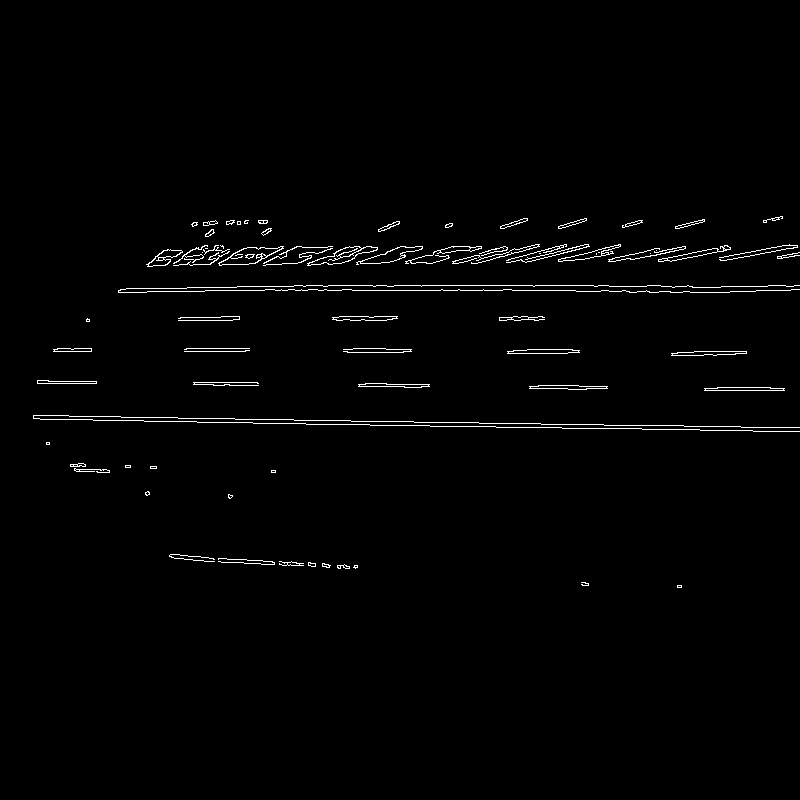
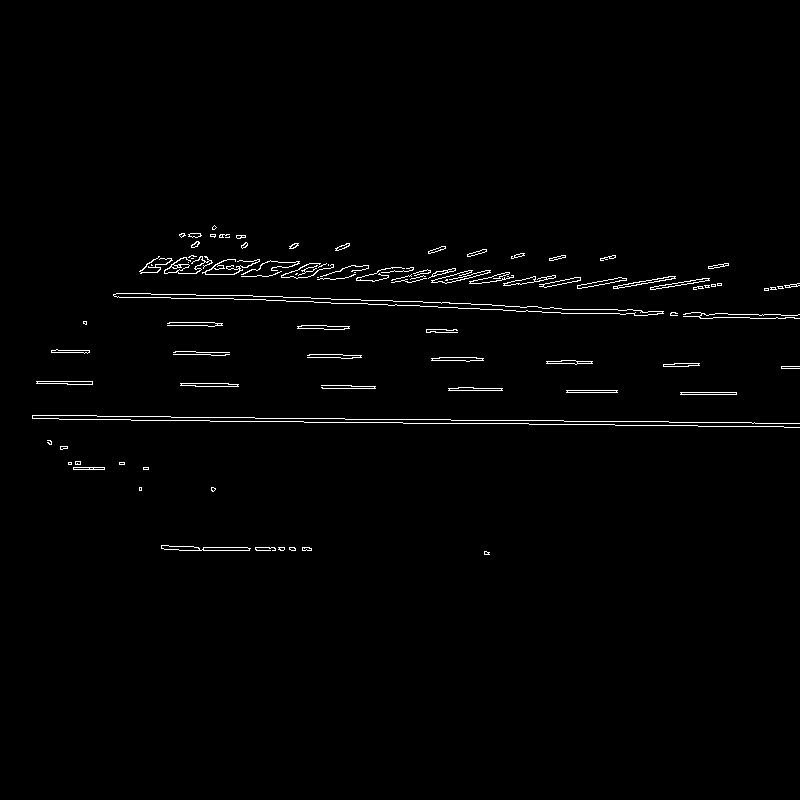
duplicate lines removed

diff --git a/ipm.py b/ipm.py
@@ -5,6 +5,7 @@ import json
 import threading
 import logging
 import time
+import math
 
 from myLine import myLine
 from time import sleep
@@ -55,8 +56,13 @@ def filter_out_dark_pixels():
 
     im.save('threshold_filter_gray.png')
 
+def distance(x1, y1, x2, y2):
+    d = math.sqrt((x2 - x1) * (x2 - x1) + (y2 - y1) * (y2 - y1))
+    return d
+
 def get_lines():
     det_lines = []
+    rm_lines = []
     threshold_filter_gray = cv2.imread('threshold_filter_gray.png')
     kernel_size = 5
     blur_gray = cv2.GaussianBlur(threshold_filter_gray,(kernel_size, kernel_size),0)
@@ -65,45 +71,75 @@ def get_lines():
     canny_out = cv2.Canny(blur_gray, low_threshold, high_threshold)
     cv2.imwrite('canny_out.png',canny_out)
     
-    #find lines
     lines = cv2.HoughLines(canny_out, 1, np.pi / 180, 250)
-    lineCount = len(lines)
-
     for line in lines:
         rho,theta = line[0]
         a = np.cos(theta)
         b = np.sin(theta)
         x0 = a * rho
         y0 = b * rho
-        # x1 stores the rounded off value of (r * cos(theta) - 1000 * sin(theta))
-        x1 = int(x0 + 1000 * (-b))
-        # y1 stores the rounded off value of (r * sin(theta)+ 1000 * cos(theta))
-        y1 = int(y0 + 1000 * (a))
-        # x2 stores the rounded off value of (r * cos(theta)+ 1000 * sin(theta))
-        x2 = int(x0 - 1000 * (-b))
-        # y2 stores the rounded off value of (r * sin(theta)- 1000 * cos(theta))
-        y2 = int(y0 - 1000 * (a))
-
+        x1 = int(x0 + 1000 * (-b)) # x1 stores the rounded off value of (r * cos(theta) - 1000 * sin(theta))
+        y1 = int(y0 + 1000 * (a)) # y1 stores the rounded off value of (r * sin(theta)+ 1000 * cos(theta))
+        x2 = int(x0 - 1000 * (-b)) # x2 stores the rounded off value of (r * cos(theta)+ 1000 * sin(theta))
+        y2 = int(y0 - 1000 * (a)) # y2 stores the rounded off value of (r * sin(theta)- 1000 * cos(theta))
         ll = myLine(x1, y1, x2, y2)
         det_lines.append(ll)
-
-        cv2.line(threshold_filter_gray, (x1, y1), (x2, y2), (0, 0, 255), 1)
+        cv2.line(threshold_filter_gray, (x1, y1), (x2, y2), (255, 0, 0), 1)
         print("x1: " + str(x1) + "\ty1:" + str(y1)+ "\tx2:" + str(x2)+ "\ty2:" + str(y2))
-        #slope.add((y2 - y1)/(x2-x1))        
+
+    lineCount = len(det_lines)
+    print("\nlineCount: " + str(lineCount))
+    if(lineCount >= 2):
+        i = 0
+        while i<lineCount:  
+            j = i + 1
+            while j<lineCount:
+                print(str(i) + " " + str(j))                
+                print(str(det_lines[i].x1) + "\t" + str(det_lines[i].y1)+ "\t" + str(det_lines[i].x2)+ "\t" + str(det_lines[i].y2))
+                print(str(det_lines[j].x1) + "\t" + str(det_lines[j].y1)+ "\t" + str(det_lines[j].x2)+ "\t" + str(det_lines[j].y2))
+                dist_start = distance(det_lines[i].x1, det_lines[i].y1, det_lines[j].x1, det_lines[j].y1)
+                dist_end = distance(det_lines[i].x2, det_lines[i].y2, det_lines[j].x2, det_lines[j].y2)
+                print("d1 " + str(dist_start))
+                print("d2 " + str(dist_end))
+                if(dist_start < 30 and dist_end < 30):
+                    print("****remove " + str(i))
+                    if(i not in rm_lines):
+                        rm_lines.append(i)
+                j = j + 1
+            i = i + 1
+    
+    print("rm_lines" + str(rm_lines))
+    while len(rm_lines) > 0:
+        det_lines.pop(rm_lines[0])
+        rm_lines.pop(0)
+        rm_lines = [x - 1 for x in rm_lines]
+        print("rm_lines" + str(rm_lines))        
+
+
+    for i in range(len(det_lines)):
+        cv2.line(threshold_filter_gray, (det_lines[i].x1, det_lines[i].y1), (det_lines[i].x2, det_lines[i].y2), (0, 0, 255), 1)
     
     cv2.namedWindow('image', cv2.WINDOW_NORMAL)
     cv2.imshow('image', threshold_filter_gray)
     cv2.imwrite('lines.png', threshold_filter_gray)
 
-    i = 0
-    while i<lineCount:
-        print(str(i) + " " + str(det_lines[i].x1) + "\t" + str(det_lines[i].y1)+ "\t" + 
-            str(det_lines[i].x2)+ "\t" + str(det_lines[i].y2))
-        i = i + 1
-
-
+    
+    lineCount = len(det_lines)
+    print("\nlineCount 2: " + str(lineCount) + "\n")
+    if(lineCount >= 2):
+        i = 0
+        while i<lineCount:  
+            j = i + 1
+            while j<lineCount:
+                print(str(i) + " " + str(j))                
+                print(str(det_lines[i].x1) + "\t" + str(det_lines[i].y1)+ "\t" + str(det_lines[i].x2)+ "\t" + str(det_lines[i].y2))
+                print(str(det_lines[j].x1) + "\t" + str(det_lines[j].y1)+ "\t" + str(det_lines[j].x2)+ "\t" + str(det_lines[j].y2))
+                j = j + 1
+            i = i + 1
+    
+    print("\n***************************************\n")
     k = cv2.waitKey(0)
-    #return slope
+
 
 if __name__ == '__main__':
     a_file = open("camera.json", "r")
